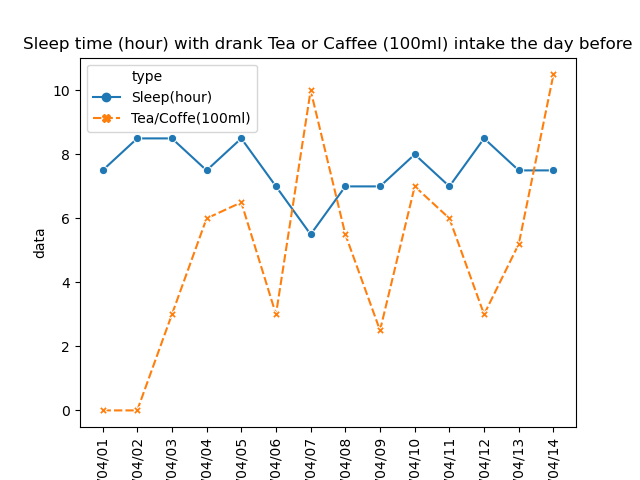
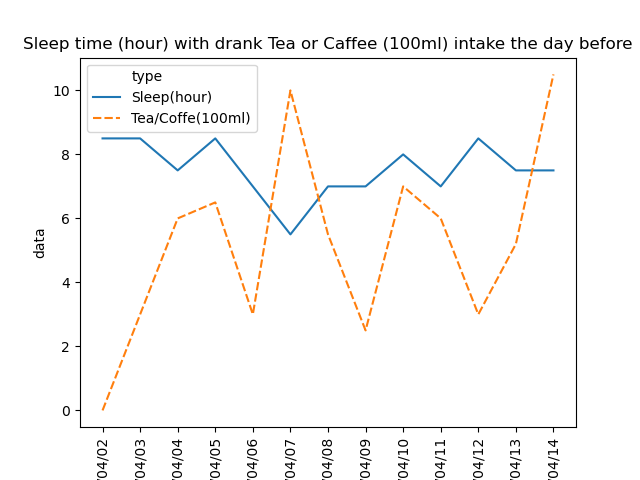
データ追加して棒グラフなどを追加

diff --git a/makeFig.py b/makeFig.py
@@ -42,25 +42,25 @@ csvData.to_json("./data.json")
 # 飲んだ量を翌日の日付と紐づけるために一日ずらしたデータに整形する。
 anlyDf=pd.DataFrame({
   "day":np.concatenate([
-      csvData.day,
-      csvData.day,
+      csvData.day[92:],
+      csvData.day[92:],
       [0], # 飲み物の日付が一日後ろにずれるので行列の大きさを調整する
     ]),
   "type":np.concatenate([
-      np.tile("Sleep(hour)",len(csvData.hour)),
-      (np.tile("Tea/Coffe(100ml)",len(csvData.drank))),
+      np.tile("Sleep(hour)",len(csvData.hour[92:])),
+      (np.tile("Tea/Coffe(100ml)",len(csvData.drank[92:]))),
       ["Tea/Coffe(100ml)"], # 飲み物の日付が一日後ろにずれるので行列の大きさを調整する
     ]),
   "data":np.concatenate([
-      csvData.hour,
+      csvData.hour[92:],
       [0], # この0mlを挿入することで飲み物の日付を翌日の睡眠時間と合わせる
-      csvData.drank/100,# 睡眠時間と有効桁数を合わせるために100ml単位にする
+      csvData.drank[92:]/100,# 睡眠時間と有効桁数を合わせるために100ml単位にする
     ]),
   })  
 print(anlyDf)
 
 # 折れ線グラフプロット
-fig = sns.lineplot(x="day", y="data",data=anlyDf,hue="type",style="type",markers=True)
+fig = sns.lineplot(x="day", y="data",data=anlyDf,hue="type",style="type")
 
 # x軸ラベルを設定＆ラベル表示を90度回転
 fig.set_xticklabels(anlyDf.day, rotation="90")
@@ -73,6 +73,18 @@ plt.title("Sleep time (hour) with drank Tea or Caffee (100ml) intake the day bef
 plt.savefig("line.png")
 plt.clf()
 
+
+# 曜日ごとの睡眠時間グラフプロット
+fig = sns.barplot(x="WoD",y="hour",data=csvData,color="0.9",order=['Sun.','Mon.','Tue.','Wed.','Thu.','Fri.','Sat.'])
+fig = sns.swarmplot(x="WoD",y="hour",data=csvData,order=['Sun.','Mon.','Tue.','Wed.','Thu.','Fri.','Sat.'])
+# 画像の保存と画像データのリフレッシュ
+plt.savefig("bar.png")
+plt.clf()
+
+fig = sns.boxplot(x="WoD",y="hour",data=csvData,color="0.95",order=['Sun.','Mon.','Tue.','Wed.','Thu.','Fri.','Sat.'])
+fig = sns.swarmplot(x="WoD",y="hour",data=csvData,order=['Sun.','Mon.','Tue.','Wed.','Thu.','Fri.','Sat.'])
+plt.savefig("box.png")
+plt.clf()
 
 # 散布図と回帰分析(信頼区間95%)プロット
 fig = sns.regplot(x="drank", y="hour", data=csvData, ci=95)
